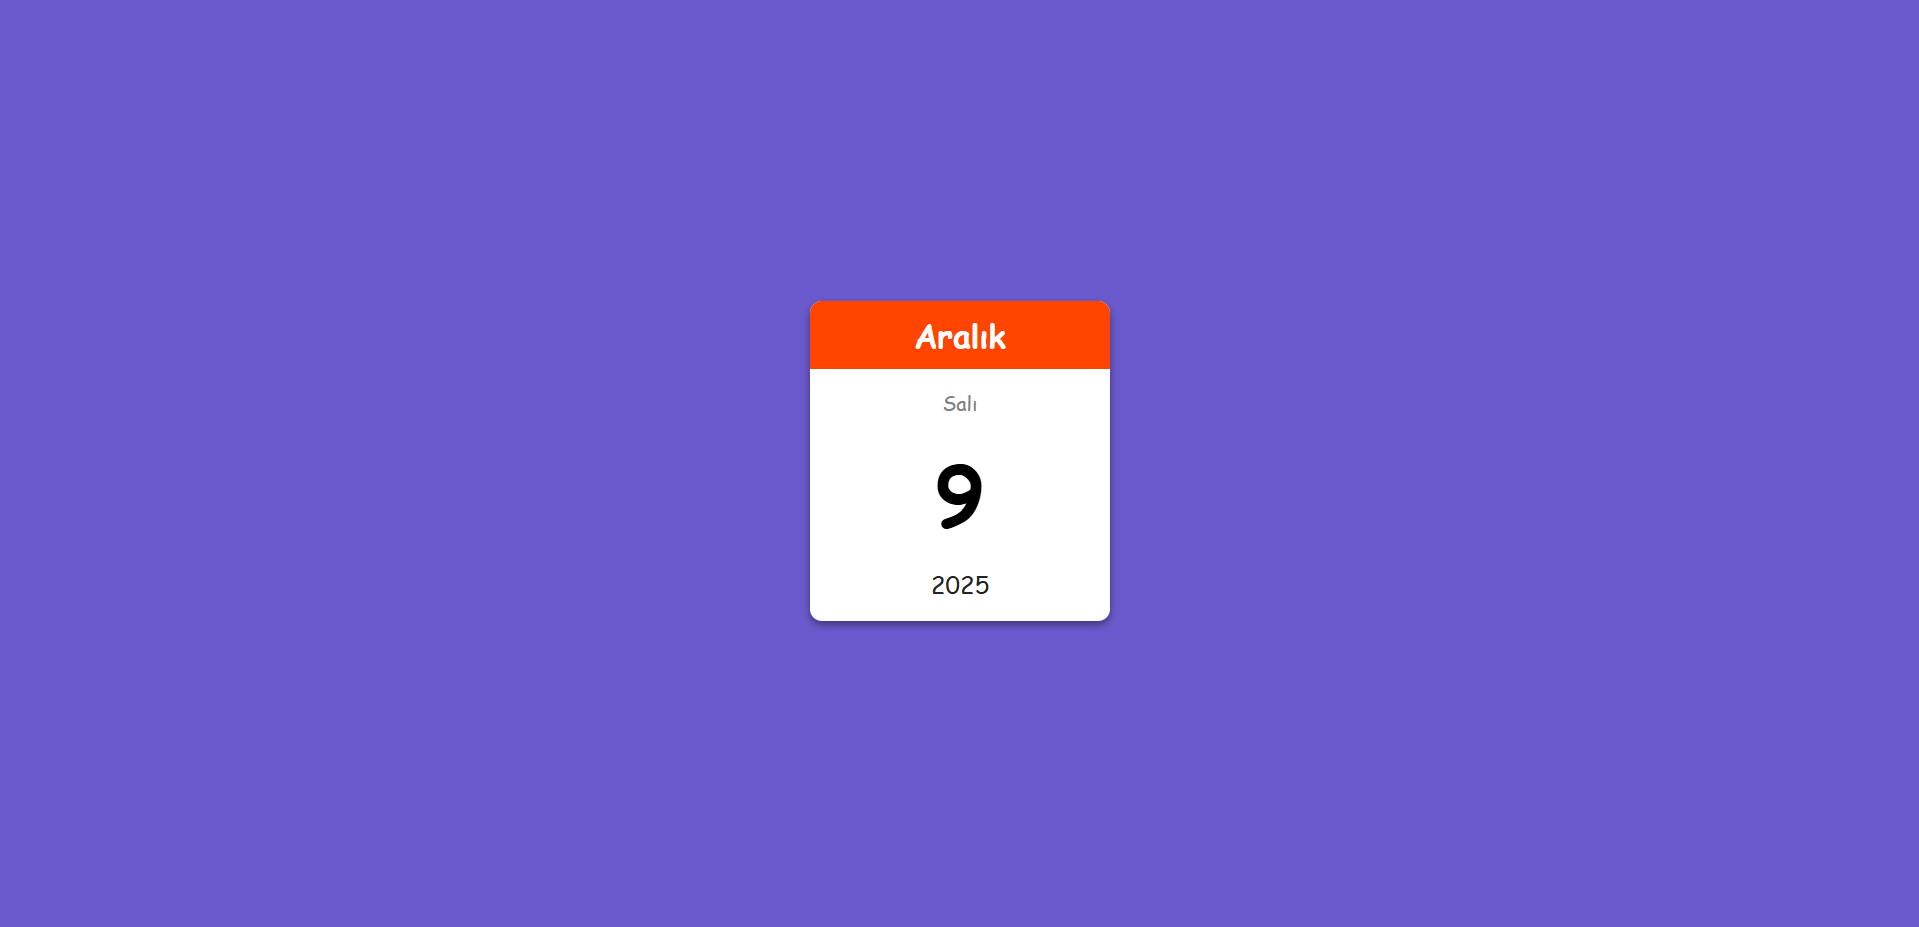
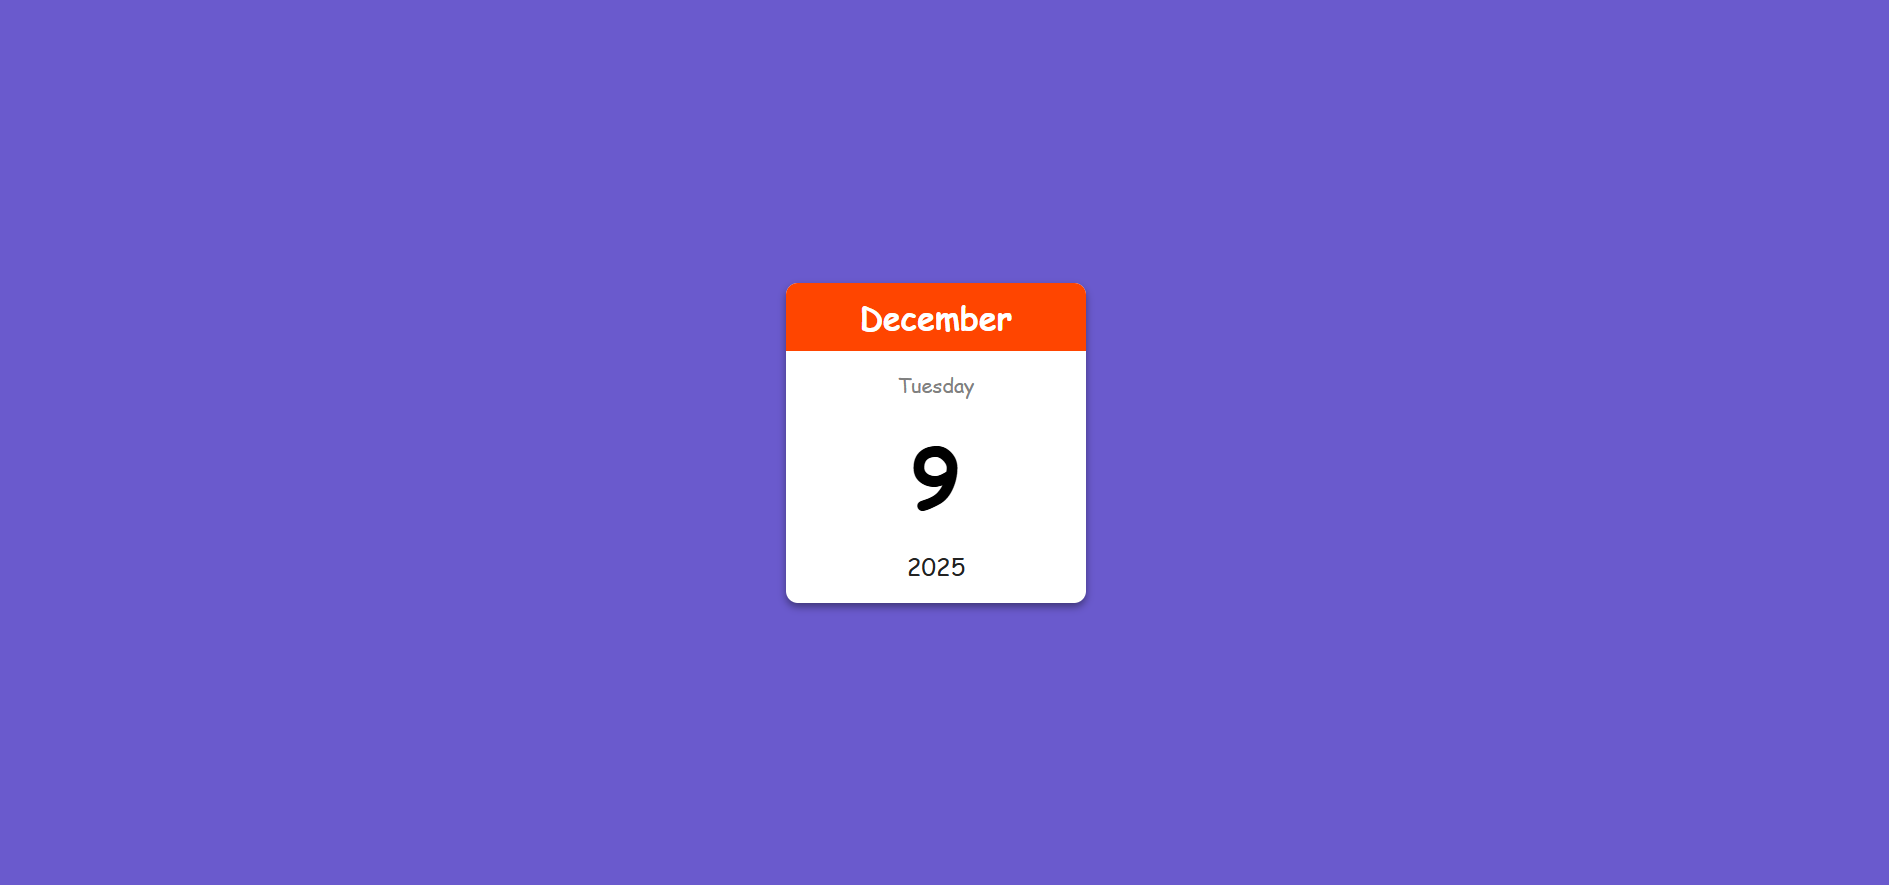
update date localization in index.js and add missing screenshot entry

Changed region(s): [[0.406, 0.3051, 0.5934, 0.7017], [0.4685, 0.4881, 0.531, 0.5797], [0.4685, 0.4271, 0.531, 0.4576]]

diff --git a/index.js b/index.js
@@ -6,9 +6,9 @@ const year = document.getElementById("year");
 
 const date = new Date();
 
-monthName.innerText = date.toLocaleString("default", { month: "long" });
+monthName.innerText = date.toLocaleString("en", { month: "long" });
 
-dayName.innerText = date.toLocaleString("default", { weekday: "long" });
+dayName.innerText = date.toLocaleString("en", { weekday: "long" });
 
 dayNumber.innerText = date.getDate();
 
